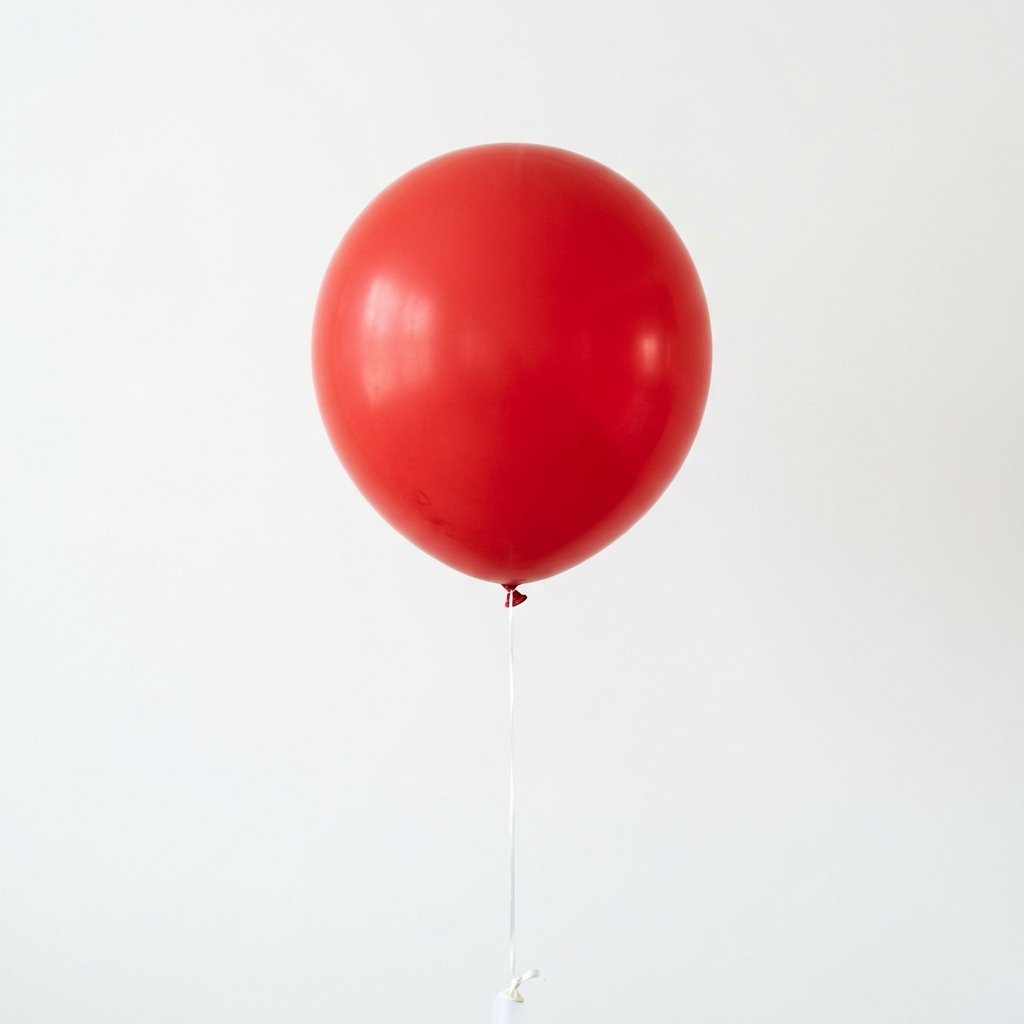
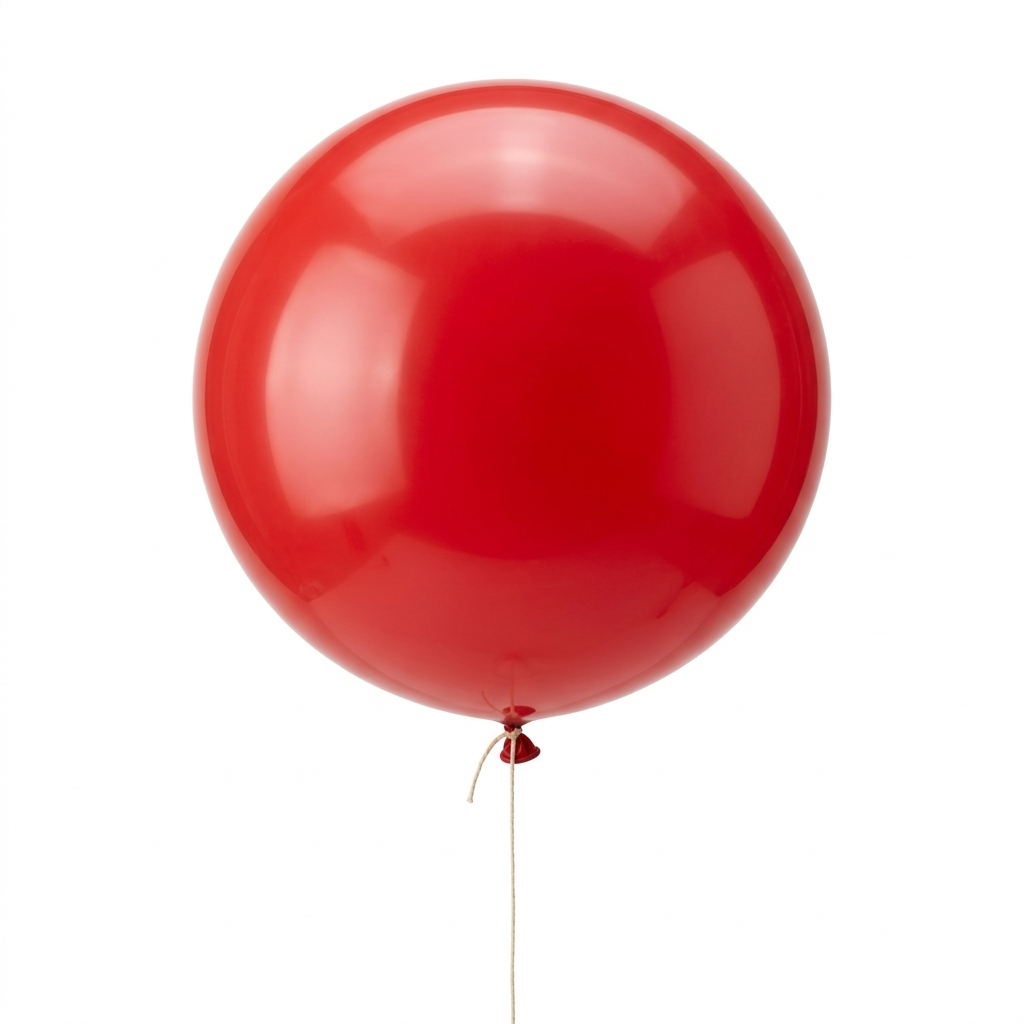
feat: improve surprise balloon image and remove contact form

diff --git a/src/app/components/step7-summary.tsx b/src/app/components/step7-summary.tsx
@@ -17,9 +17,6 @@ import {
   Palette,
   UtensilsCrossed,
   Calendar,
-  Phone,
-  User,
-  MessageSquare,
   PartyPopper,
   Check,
   Star,
@@ -118,40 +115,6 @@ export function Step7Summary() {
   const { state, updateState, totalPrice, submitted, resetWizard } = useWizard();
   const [showResetConfirm, setShowResetConfirm] = useState(false);
 
-  const handlePhoneChange = (e: React.ChangeEvent<HTMLInputElement>) => {
-    const val = e.target.value;
-    if (!val) {
-      updateState({ contactPhone: "" });
-      return;
-    }
-    let numbers = val.replace(/\D/g, "");
-    if (numbers.length === 0) {
-      updateState({ contactPhone: "" });
-      return;
-    }
-    if (numbers[0] === "8") {
-      numbers = "7" + numbers.slice(1);
-    } else if (numbers[0] === "9") {
-      numbers = "79" + numbers.slice(1);
-    } else if (numbers[0] !== "7") {
-      numbers = "7" + numbers;
-    }
-    numbers = numbers.substring(0, 11);
-    let formatted = "+7";
-    if (numbers.length > 1) {
-      formatted += " (" + numbers.substring(1, 4);
-    }
-    if (numbers.length >= 5) {
-      formatted += ") " + numbers.substring(4, 7);
-    }
-    if (numbers.length >= 8) {
-      formatted += "-" + numbers.substring(7, 9);
-    }
-    if (numbers.length >= 10) {
-      formatted += "-" + numbers.substring(9, 11);
-    }
-    updateState({ contactPhone: formatted });
-  };
 
   const effectiveWeekend = state.date ? isWeekendOrHoliday2026(state.date) : state.isWeekend;
 
@@ -302,7 +265,7 @@ export function Step7Summary() {
             Итого: <span className="text-lg text-[#FF6022]">{totalPrice.toLocaleString("ru-RU")} ₽</span>
           </p>
           <p className="text-xs text-[#ABABAB] mt-1">
-            {state.contactName}, мы готовим для вас незабываемый праздник!
+            {state.contactName ? `${state.contactName}, мы` : "Мы"} готовим для вас незабываемый праздник!
           </p>
         </div>
       </motion.div>
@@ -511,45 +474,6 @@ export function Step7Summary() {
         </p>
       </div>
 
-      {/* Contact form */}
-      <div className="bg-white rounded-2xl border border-[#E5E5E5] p-5 mb-6">
-        <h3 className="text-[#1A1A1A] mb-4">Контактные данные</h3>
-
-        <div className="space-y-3">
-          <div className="relative">
-            <User className="absolute left-3 top-1/2 -translate-y-1/2 w-4 h-4 text-[#ABABAB]" />
-            <input
-              type="text"
-              placeholder="Ваше имя"
-              value={state.contactName}
-              onChange={(e) => updateState({ contactName: e.target.value })}
-              className="w-full bg-[#F5F5F5] rounded-xl py-3 pl-10 pr-4 text-sm border border-[#E5E5E5] focus:outline-none focus:ring-2 focus:ring-[#FF6022]"
-            />
-          </div>
-
-          <div className="relative">
-            <Phone className="absolute left-3 top-1/2 -translate-y-1/2 w-4 h-4 text-[#ABABAB]" />
-            <input
-              type="tel"
-              placeholder="+7 (___) ___-__-__"
-              value={state.contactPhone}
-              onChange={handlePhoneChange}
-              maxLength={18}
-              className="w-full bg-[#F5F5F5] rounded-xl py-3 pl-10 pr-4 text-sm border border-[#E5E5E5] focus:outline-none focus:ring-2 focus:ring-[#FF6022]"
-            />
-          </div>
-
-          <div className="relative">
-            <MessageSquare className="absolute left-3 top-3 w-4 h-4 text-[#ABABAB]" />
-            <textarea
-              placeholder="Комментарий или пожелания..."
-              value={state.contactComment}
-              onChange={(e) => updateState({ contactComment: e.target.value })}
-              className="w-full bg-[#F5F5F5] rounded-xl py-3 pl-10 pr-4 text-sm border border-[#E5E5E5] focus:outline-none focus:ring-2 focus:ring-[#FF6022] resize-none h-20"
-            />
-          </div>
-        </div>
-      </div>
 
       {/* Reset Button */}
       <button

diff --git a/src/app/components/floating-price.tsx b/src/app/components/floating-price.tsx
@@ -85,10 +85,7 @@ export function FloatingPrice() {
       case 13: return "Выберите диско или треш-коробку";
       case 14: return "Выберите шар-сюрприз или пиньяту";
       case 12: {
-        if (!state.contactName) return "Укажите ваше имя";
-        const phoneDigits = state.contactPhone ? state.contactPhone.replace(/\D/g, "") : "";
-        if (phoneDigits.length < 11) return "Введите номер телефона полностью";
-        return "Укажите номер телефона";
+        return "";
       }
       default: return "Сделайте выбор для продолжения";
     }
@@ -98,25 +95,15 @@ export function FloatingPrice() {
   const handleNext = async () => {
     // Final step — submit
     if (step === 12) {
-      const phoneDigits = state.contactPhone ? state.contactPhone.replace(/\D/g, "") : "";
-      if (state.contactName && phoneDigits.length === 11) {
-        setIsSubmitting(true);
-        try {
-          await submitToAPI(totalPrice);
-        } catch {
-          // Submit even if API fails — don't block the user
-        }
-        clearCache(); // Clear saved state after successful submission
-        setSubmitted(true);
-        setIsSubmitting(false);
-      } else {
-        // Trigger validation on final step too
-        setIsShaking(true);
-        setToastMessage(getValidationMessage());
-        setShowToast(true);
-        setTimeout(() => setIsShaking(false), 500);
-        setTimeout(() => setShowToast(false), 2500);
+      setIsSubmitting(true);
+      try {
+        await submitToAPI(totalPrice);
+      } catch {
+        // Submit even if API fails — don't block the user
       }
+      clearCache(); // Clear saved state after successful submission
+      setSubmitted(true);
+      setIsSubmitting(false);
       return;
     }
 

diff --git a/src/app/components/step-balloon.tsx b/src/app/components/step-balloon.tsx
@@ -53,8 +53,8 @@ export function StepBalloon() {
                   : undefined
               }}
             >
-              <div className="relative aspect-[4/3.1] w-full rounded-[20px] overflow-hidden bg-gray-50 flex items-center justify-center shrink-0">
-                <ImageWithFallback src={getPublicUrl("/activities/red_balloon.png")} alt="Шар-сюрприз" className="w-[85%] h-[85%] object-contain group-hover:scale-105 transition-transform duration-500" />
+              <div className="relative aspect-[4/3.1] w-full rounded-[20px] overflow-hidden bg-white flex items-center justify-center shrink-0">
+                <ImageWithFallback src={getPublicUrl("/activities/red_balloon.png")} alt="Шар-сюрприз" className="w-full h-full object-contain group-hover:scale-105 transition-transform duration-500" />
                 
                 <div className="absolute top-2 left-2 bg-[#FF6022] text-white text-[8px] font-black uppercase tracking-wider px-2 py-1 rounded-full shadow-sm">
                   Входит!
@@ -96,8 +96,8 @@ export function StepBalloon() {
                   : undefined
               }}
             >
-              <div className="relative aspect-[4/3.1] w-full rounded-[20px] overflow-hidden bg-gray-50 flex items-center justify-center shrink-0">
-                <ImageWithFallback src={getPublicUrl("/activities/pinata_new.webp")} alt="Пиньята" className="w-[85%] h-[85%] object-contain group-hover:scale-105 transition-transform duration-500" />
+              <div className="relative aspect-[4/3.1] w-full rounded-[20px] overflow-hidden bg-white flex items-center justify-center shrink-0">
+                <ImageWithFallback src={getPublicUrl("/activities/pinata_new.webp")} alt="Пиньята" className="w-full h-full object-contain group-hover:scale-105 transition-transform duration-500" />
                 
                 <div className="absolute top-2 left-2 bg-[#FF6022] text-white text-[8px] font-black uppercase tracking-wider px-2 py-1 rounded-full shadow-sm">
                   Входит!